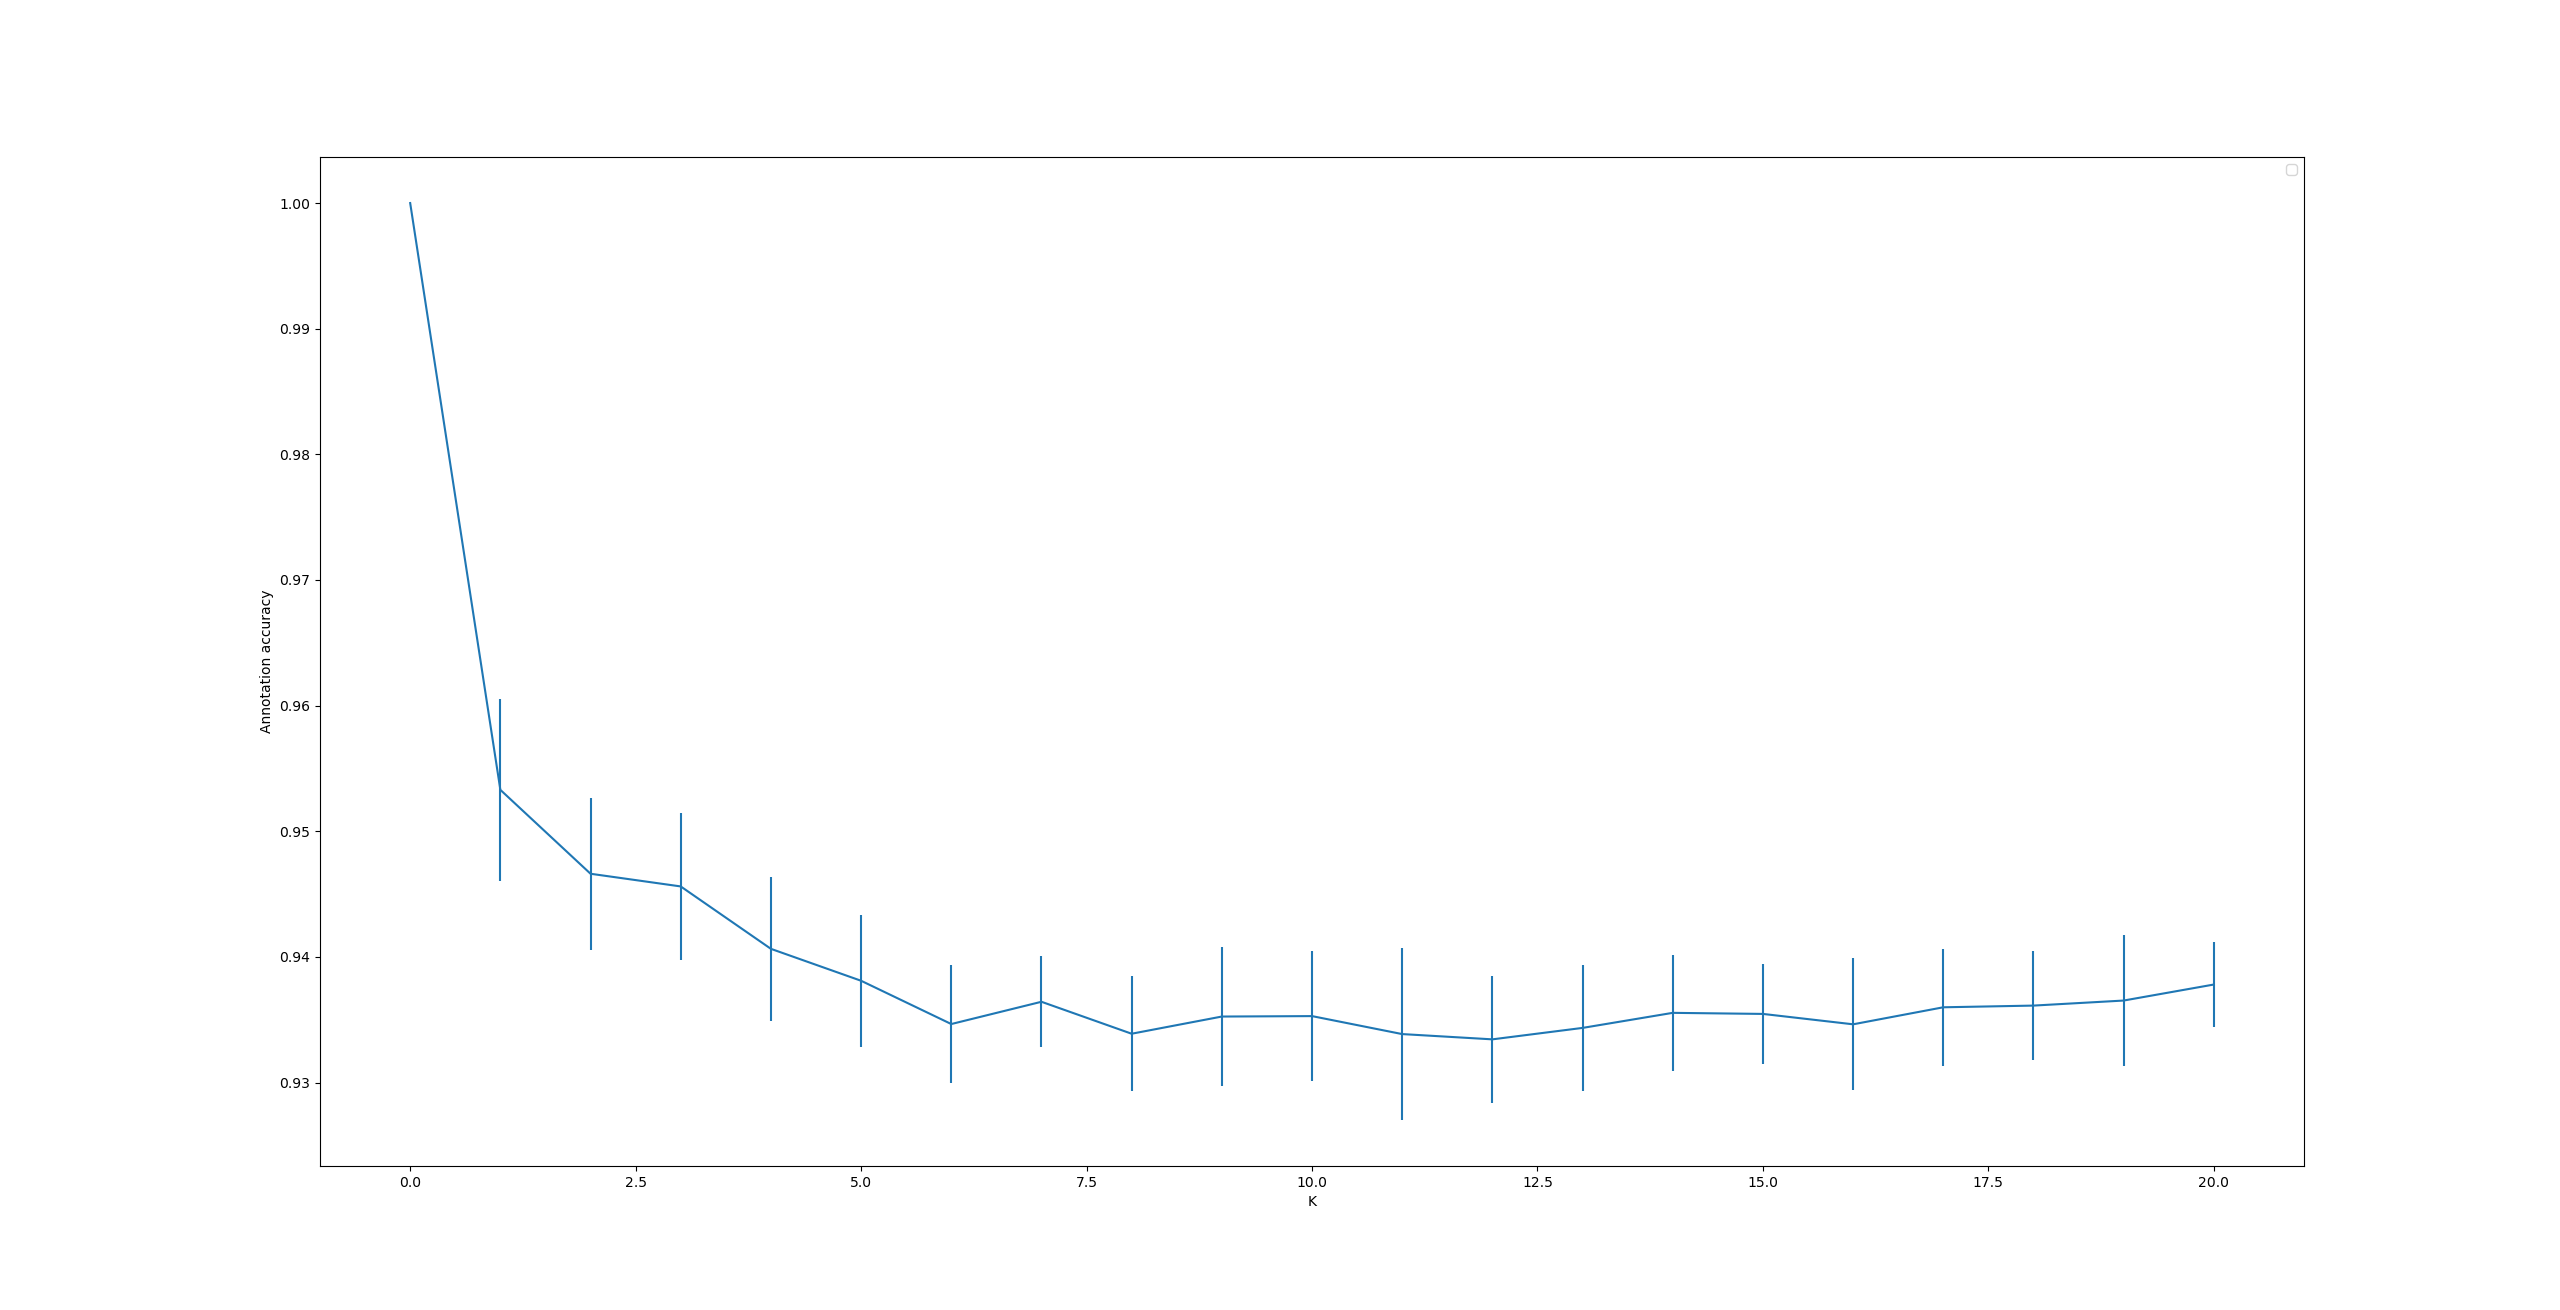
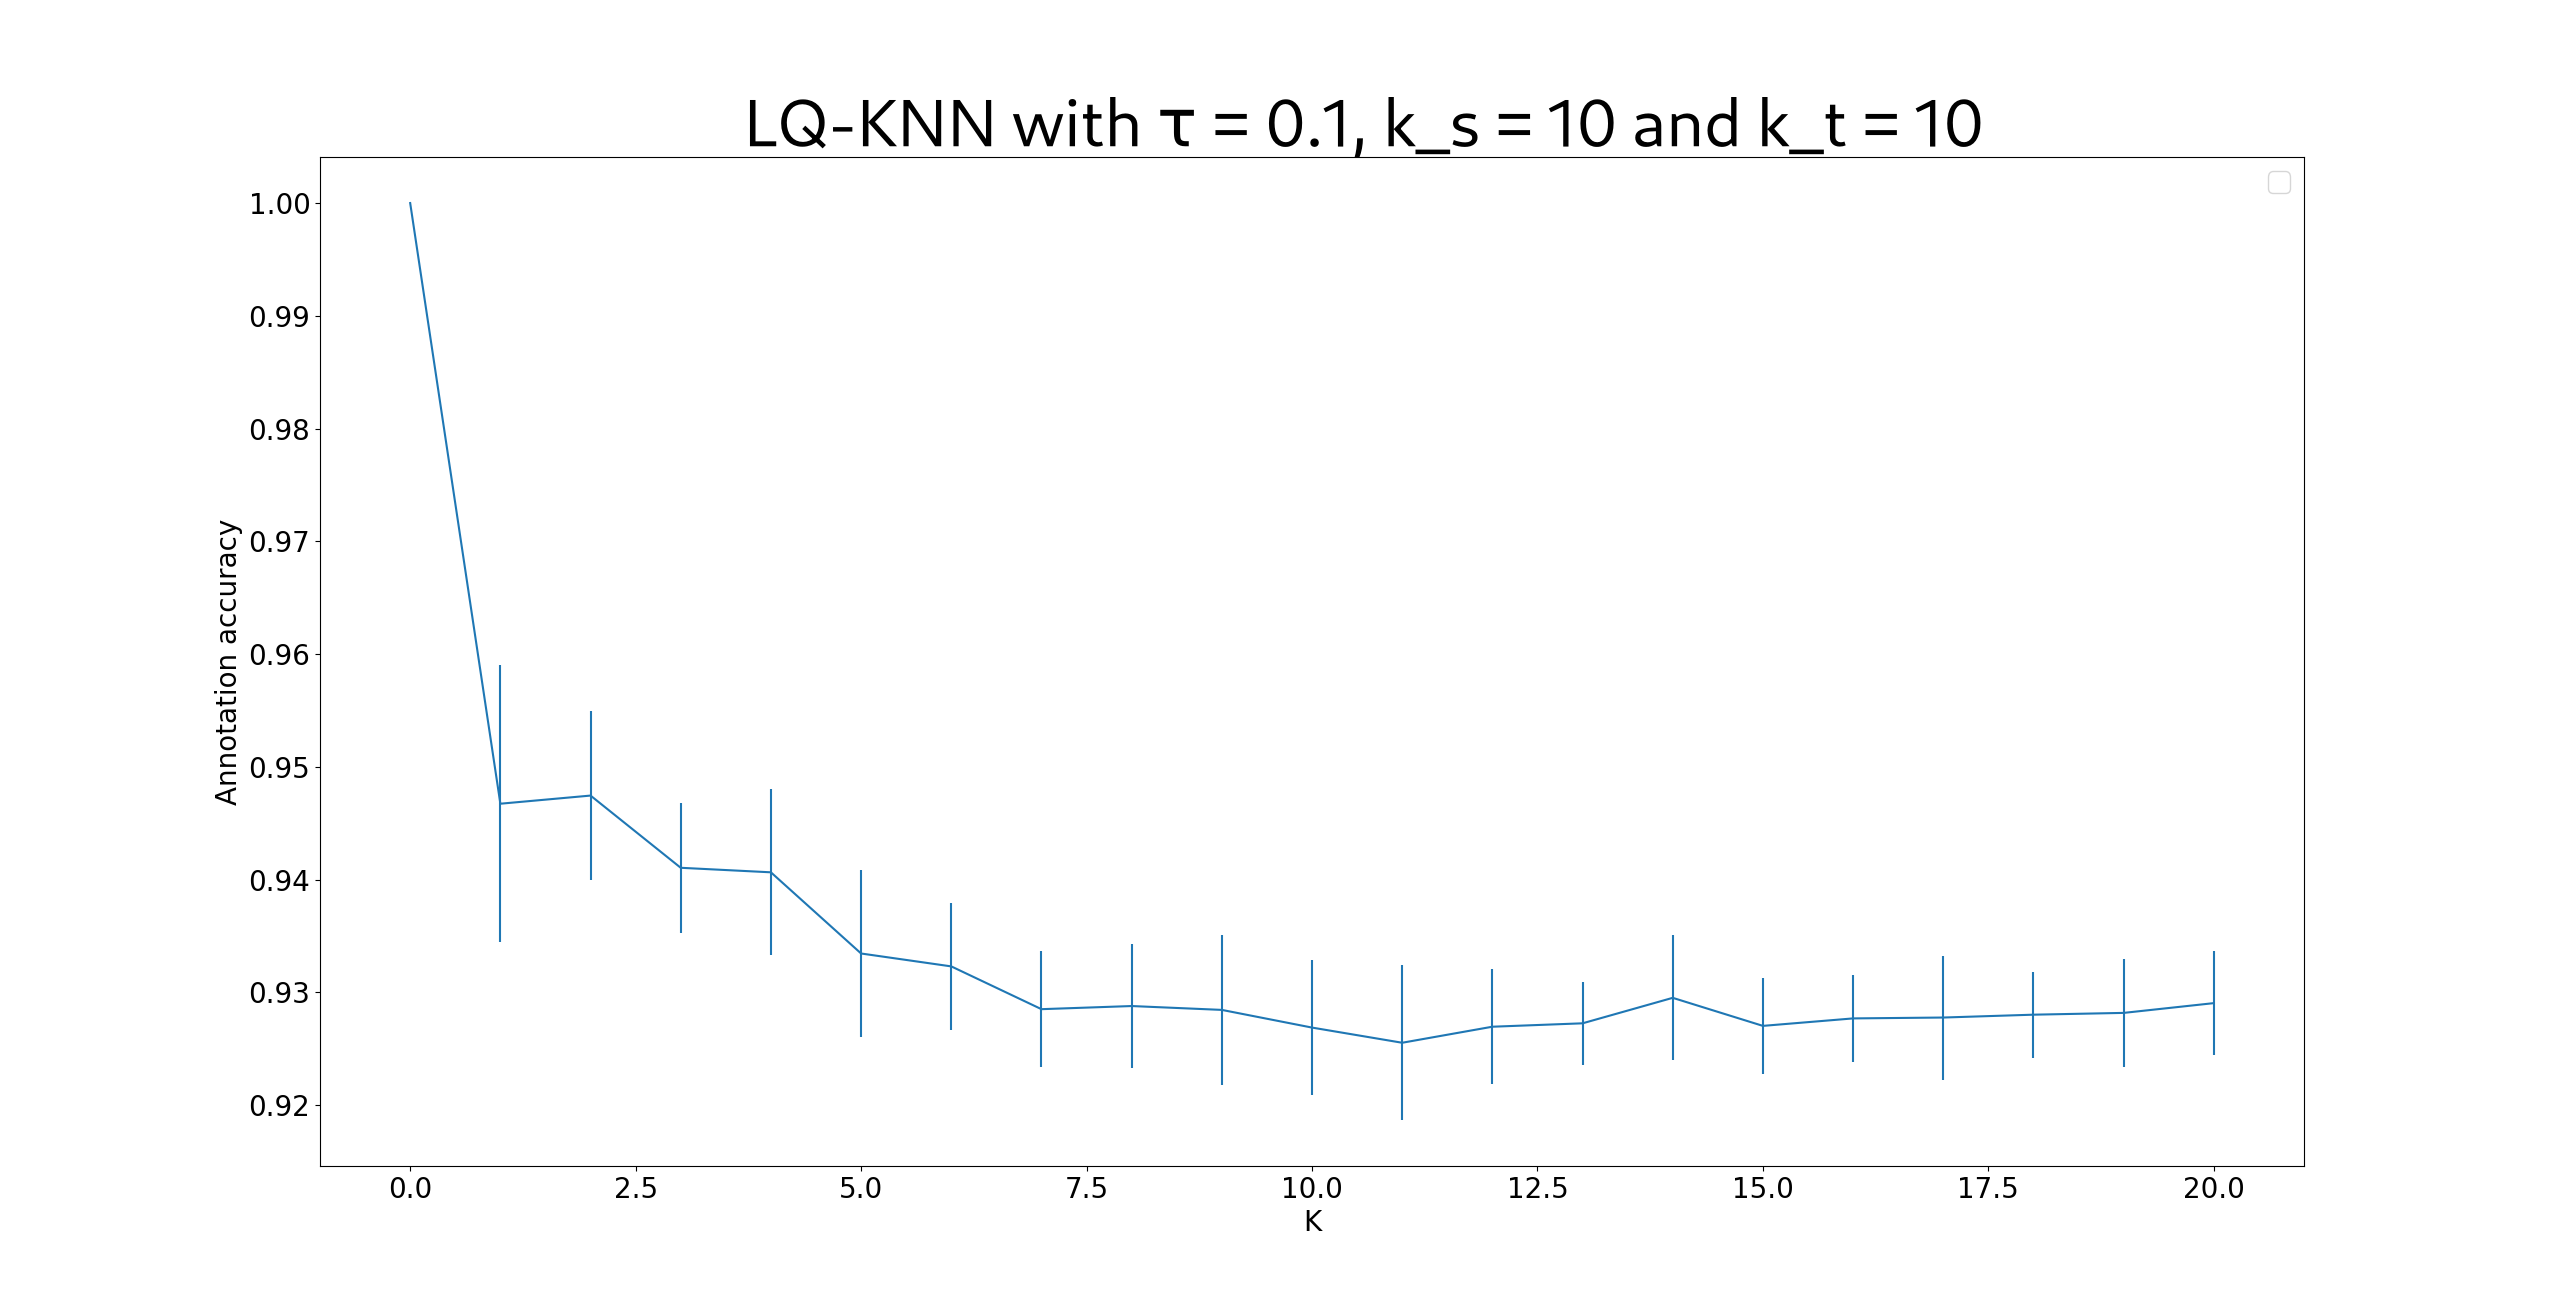
Update figures example label prop results

diff --git a/examples/label_propagation.py b/examples/label_propagation.py
@@ -250,6 +250,9 @@ def plotResults(results, var_to_study):
         y_mean_nb_labeled_samples.append(np.mean(results['nbsAnnotatedSamples'][x]))
         y_std_nb_labeled_samples.append(np.std(results['nbsAnnotatedSamples'][x]))
 
+    # Matplotib fontsize parameter
+    plt.rcParams.update({'font.size': 20})
+
     # Annotation accuracy
     plt.errorbar(x_vals, y_mean_annot_acc, yerr=y_std_annot_acc)
     plt.xlabel(var_to_study)

diff --git a/utils/plot_annotation_performances.py b/utils/plot_annotation_performances.py
@@ -93,7 +93,7 @@ def main():
         download_label_propagation_results_data()
 
     #==========================================================================#
-    # Matplib fontsize parameter
+    # Matplotlib fontsize parameter
     plt.rcParams.update({'font.size': 20})
 
     #==========================================================================#)
